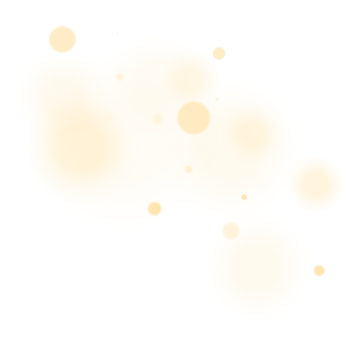
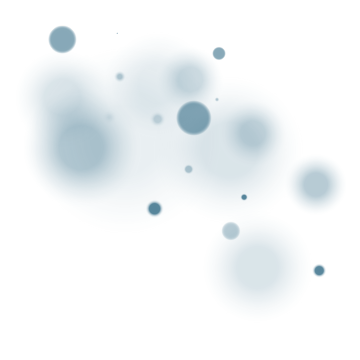
🚀 final

diff --git a/app/components/Carousel.jsx b/app/components/Carousel.jsx
@@ -6,20 +6,20 @@ import 'swiper/css/effect-coverflow';
 import 'swiper/css/navigation';
 import { EffectCoverflow, Navigation } from 'swiper';
 import Image from 'next/image';
-import junk from '../../public/junkRemoval.jpg';
-import appliance from '../../public/AppliancePlugImg.jpg';
-import netflix from '../../public/NetflixImg.jpg';
+import controls from '../../public/controls.png'
+import electrical from '../../public/Electrical.png'
+import instrumentation from '../../public/Instrumentation.png'
 
 const Carousel = () => {
   return (
     <div className="sm:w-[45%] 2xl:w-[30%] w-[80%] h-[80%] mx-auto mt-20 text-center">
-      <h1 className="font-bold text-2xl mb-8">Some of our Work</h1>
+      <h1 className="font-bold text-2xl mb-8">Swipe to see some of our disciplines</h1>
       <Swiper
         effect={'coverflow'}
         grabCursor={true}
         centeredSlides={true}
         slidesPerView={'auto'}
-        loop={true}
+        loop={false}
         coverflowEffect={{
           rotate: 0,
           stretch: 0,
@@ -31,35 +31,35 @@ const Carousel = () => {
         className="w-[100%] py-[50px]"
       >
         <SwiperSlide>
-          <div className="bg-black/60 absolute w-full h-[30%] bottom-0" />
+          {/* <div className="bg-black/60 absolute w-full h-[30%] bottom-0" />
           <h1 className="absolute text-white font-bold sm:text-3xl sm:bottom-10 bottom-2 left-10">
-            Junk Removal Company
-          </h1>
+            Instrumentation
+          </h1> */}
           <Image
-            src={junk}
-            alt="junk"
+            src={instrumentation}
+            alt="instrumentation"
             className="block w-[100%]"
           />
         </SwiperSlide>
         <SwiperSlide>
-          <div className="bg-black/60 absolute w-full h-[30%] bottom-0" />
+          {/* <div className="bg-black/60 absolute w-full h-[30%] bottom-0" />
           <h1 className="absolute text-white font-bold sm:text-3xl sm:bottom-10 bottom-2 left-10">
-            Appliance Store
-          </h1>
+            Electrical
+          </h1> */}
           <Image
-            src={appliance}
-            alt="junk"
+            src={electrical}
+            alt="electrical"
             className="block w-[100%]"
           />
         </SwiperSlide>
         <SwiperSlide>
-          <div className="bg-black/60 absolute w-full h-[30%] bottom-0" />
+          {/* <div className="bg-black/60 absolute w-full h-[30%] bottom-0" />
           <h1 className="absolute text-white font-bold sm:text-3xl sm:bottom-10 bottom-2 left-10">
-            Netflix Clone
-          </h1>
+            Controls
+          </h1> */}
           <Image
-            src={netflix}
-            alt="junk"
+            src={controls}
+            alt="controls"
             className="block w-[100%]"
           />
         </SwiperSlide>

diff --git a/app/components/DesktopNavbar.jsx b/app/components/DesktopNavbar.jsx
@@ -4,35 +4,33 @@ import { SlArrowUp } from 'react-icons/sl';
 const DesktopNavbar = () => {
   return (
     <div className="fixed hidden sm:flex w-full bottom-10 z-40 text-center items-center justify-center">
-      <div className="bg-black flex items-center text-white rounded-full mx-auto max-w-[660px] px-3 py-5">
+      <div className="bg-[#105271] flex items-center text-white rounded-full mx-auto max-w-[660px] px-3 py-5">
         <ul className="flex gap-10 justify-around text-xl items-center">
-          <li className="rounded-full bg-gray-700 p-3 flex-nowrap">
+          <li className="rounded-full bg-[#66bc45] text-black p-3 flex-nowrap">
             <SlArrowUp className="text-2xl mx-auto cursor-pointer" />
           </li>
-          <Link href="/">
-            <li className="hover:bg-white hover:text-black hover:p-2 hover:rounded-full ease-in-out duration-500 cursor-pointer">
+          <Link href="https://github.com/pqxglobal">
+            <li className="hover:bg-[#66bc45] hover:text-black hover:p-2 hover:rounded-full ease-in-out duration-500 cursor-pointer">
               Portfolio
             </li>
           </Link>
           <Link href="/">
-            <li className="hover:bg-white hover:text-black hover:p-2 hover:rounded-full ease-in-out duration-500 cursor-pointer">
+            <li className="hover:bg-[#66bc45] hover:text-black hover:p-2 hover:rounded-full ease-in-out duration-500 cursor-pointer">
               Pricing
             </li>
           </Link>
           <Link href="/">
-            <li className="hover:bg-white hover:text-black hover:p-2 hover:rounded-full ease-in-out duration-500 cursor-pointer">
+            <li className="hover:bg-[#66bc45] hover:text-black hover:p-2 hover:rounded-full ease-in-out duration-500 cursor-pointer">
               FAQ
             </li>
           </Link>
           <Link href="/">
-            <li className="hover:bg-white hover:text-black hover:p-2 hover:rounded-full ease-in-out duration-500 cursor-pointer">
+            <li className="hover:bg-[#66bc45] hover:text-black hover:p-2 hover:rounded-full ease-in-out duration-500 cursor-pointer">
               Book A Call
             </li>
           </Link>
           <Link href="/">
-            <li className='bg-gray-700 rounded-full tracking-tight p-3'>
-              Login
-            </li>
+            <li className="bg-[#66bc45] text-black rounded-full tracking-tight p-3">Login</li>
           </Link>
         </ul>
       </div>

diff --git a/app/components/Hero.jsx b/app/components/Hero.jsx
@@ -20,31 +20,45 @@ const Hero = () => {
       />
       {/* Main Text */}
       <div className="flex flex-col text-center mx-auto max-w-[1260px] items-center justify-center pt-48">
+        <h1 className="text-5xl sm:text-8xl font-bold tracking-tight z-20">PQX Global</h1>
         <h1 className="text-5xl sm:text-8xl font-bold tracking-tight z-20">
-          A software{' '}
-          <span className="bg-gradient-to-r from-[#ff781f] to-[#ffaf7a] text-transparent bg-clip-text">
-            agency
+          <span className="bg-gradient-to-r from-[#105271] to-[#66bc45] text-transparent bg-clip-text">
+            engineering
           </span>
         </h1>
         <h1 className="text-5xl sm:text-8xl font-bold z-20">with a twist</h1>
         <h2 className="text-2xl sm:text-4xl mt-4">
-          specializing in{' '}
+          {' '}
           <Typed
-            strings={['web development', 'mobile development', 'UI/UX design', 'branding']}
-            typeSpeed={200}
-            backSpeed={100}
+            strings={[
+              'Web Applications',
+              'Mobile Applications',
+              'Desktop Applications',
+              'UI/UX Design',
+              'Databases',
+              'Industrial Automation',
+              'Instrumentation',
+              'Electrical Systems',
+              'IT/OT/ET',
+              'MQTT',
+              'IIoT',
+              'OPC',
+              'MES',
+              'ERP',
+              'MRP',
+            ]}
+            typeSpeed={50}
+            backSpeed={50}
             loop
           />{' '}
         </h2>
-        <div className='items-center mx-auto justify-center text-center pt-16 z-20'>
+        <div className="items-center mx-auto justify-center text-center pt-16 z-20">
           <Link href="/">
-            <button className='bg-black text-white text-2xl px-10 py-5 rounded-lg shadow-xl shadow-black/40 hover:bg-black/70 cursor-pointer'>
+            <button className="bg-[#105271] text-white text-2xl px-10 py-5 rounded-lg shadow-xl shadow-black/40 hover:bg-[#66bc45]/70 hover:text-black cursor-pointer">
               See plans
             </button>
           </Link>
-          <p className='pt-6 font-bold text-lg'>
-            Subscriptions based model with no hidden fees. Unlimited requests
-          </p>
+          <p className="pt-6 font-bold text-lg">Technical applications for industrial companies</p>
         </div>
       </div>
       <div>

diff --git a/app/components/Features.jsx b/app/components/Features.jsx
@@ -1,41 +1,42 @@
-import { AiFillHeart, AiFillCheckCircle, AiFillControl } from 'react-icons/ai';
+import { AiFillControl } from 'react-icons/ai';
+import { MdElectricBolt } from 'react-icons/md';
+import { LuGauge } from 'react-icons/lu';
 
 const features = [
   {
-    name: 'Unlimited inboxes',
+    name: 'Controls',
     description:
       'Non quo aperiam repellendus quas est est. Eos aut dolore aut ut sit nesciunt. Ex tempora quia. Sit nobis consequatur dolores incidunt.',
     href: '#',
-    icon: AiFillHeart,
+    icon: AiFillControl,
   },
   {
-    name: 'Manage team members',
+    name: 'Instrumentation',
     description:
       'Vero eum voluptatem aliquid nostrum voluptatem. Vitae esse natus. Earum nihil deserunt eos quasi cupiditate. A inventore et molestiae natus.',
     href: '#',
-    icon: AiFillCheckCircle,
+    icon: LuGauge,
   },
   {
-    name: 'Spam report',
+    name: 'Electrical',
     description:
       'Et quod quaerat dolorem quaerat architecto aliquam accusantium. Ex adipisci et doloremque autem quia quam. Quis eos molestiae at iure impedit.',
     href: '#',
-    icon: AiFillControl,
+    icon: MdElectricBolt,
   },
 ];
 
 export default function Features() {
   return (
     <div className="w-full bg-[#ecf0f3] py-24 sm:py-32">
-      <div className="mx-auto max-w-7xl px-6 lg:px-8 sm:mt-12 mt-44">
+      <div className="mx-auto max-w-7xl px-6 lg:px-8 sm:mt-48 mt-60 sm:mb-16">
         <div className="mx-auto lg:mx-0 text-center">
           <h2 className="text-4xl font-bold tracking-tight text-black sm:text-4xl">
             Utilize the latest Tech Stacks from a professional team
           </h2>
           <p className="mt-6 text-lg leading-8 text-gray-600">
-            Let us design, build and develop your next project. Whether that is your company's
-            website, a highly converting landing page, a SaaS application or a mobile app. We've got
-            you covered.
+            Let us design, build and develop your Next project. Whether that is your company's
+            website, a highly converting landing page, a SaaS application, a mobile or desktop app. We've got you covered.
           </p>
         </div>
         <div className="mx-auto mt-16 max-w-2xl sm:mt-20 lg:mt-24 lg:max-w-none">

diff --git a/next.config.js b/next.config.js
@@ -1,4 +1,48 @@
 /** @type {import('next').NextConfig} */
-const nextConfig = {}
 
-module.exports = nextConfig
+// Before defining your Security Headers
+// add Content Security Policy directives using a template string.
+
+const ContentSecurityPolicy = `
+  default-src 'self';
+  script-src 'self';
+`;
+
+const nextConfig = {
+  async headers() {
+    return [
+      {
+        source: '/',
+        headers: [
+          {
+            key: 'X-DNS-Prefetch-Control',
+            value: 'on',
+          },
+          {
+            key: 'X-Frame-Options',
+            value: 'SAMEORIGIN',
+          },
+          {
+            key: 'Content-Security-Policy',
+            value: ContentSecurityPolicy.replace(/\s{2,}/g, ' ').trim(),
+          },
+          {
+            key: 'X-Content-Type-Options',
+            value: 'nosniff',
+          },
+          {
+            key: 'Referrer-Policy',
+            value: 'strict-origin',
+          },
+          {
+            key: 'Permissions-Policy',
+            value: 'camera=(), microphone=(), geolocation=(), browsing-topics=()',
+          },
+        ],
+      },
+    ];
+  },
+};
+
+module.exports = nextConfig;
+

diff --git a/app/components/Navbar.jsx b/app/components/Navbar.jsx
@@ -16,12 +16,12 @@ const Navbar = () => {
   return (
     <nav className="w-full fixed z-[100] bg-[#ecf0f3] shadow-xl h-20">
       <div className="flex items-center sm:justify-center justify-between h-full w-full">
-        <Link href="/">
+        <Link href="https://www.pqxglobal.com">
           <Image
             src={logo}
             alt="logo"
-            width="305"
-            height="305"
+            width="60"
+            height="60"
             priority
           />
         </Link>
